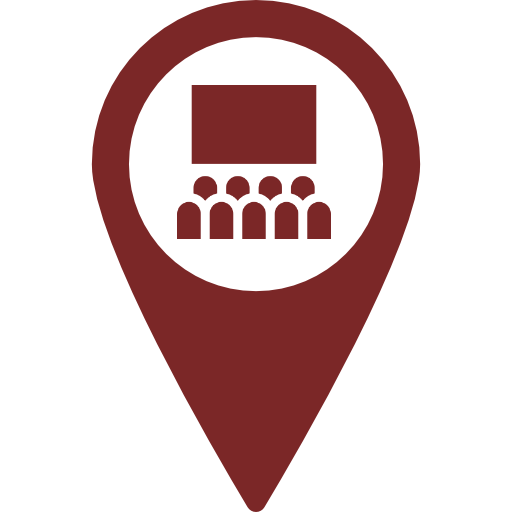
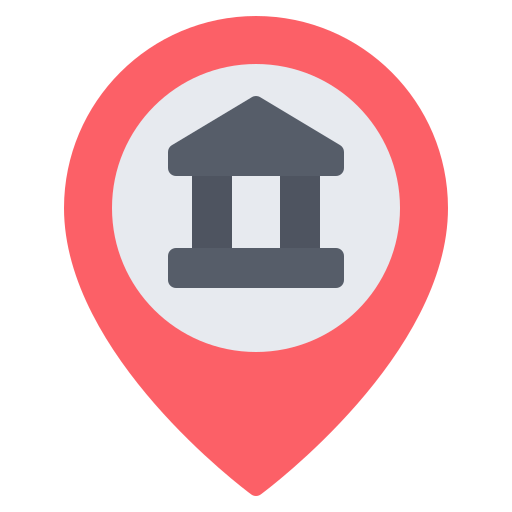
Cambio de imagenes a los marcadores del mapa

diff --git a/DependenciasAPP/src/paginas/PantallaInicio.tsx b/DependenciasAPP/src/paginas/PantallaInicio.tsx
@@ -1,4 +1,4 @@
-import React ,{useEffect, useState} from 'react'
+import React ,{useEffect} from 'react'
 import {
     SafeAreaView,
     View,
@@ -8,7 +8,6 @@ import {
     Image,
     FlatList,
     StatusBar,
-    ActivityIndicator
 } from "react-native"
 
 import  Carousel  from '../componentes/Carousel'
@@ -28,31 +27,18 @@ import { getIconoInicio } from '../componentes/Iconos';
 
 type RootStackParamList = {
     Inicio: undefined;
-    Lista: undefined;
+    Lista: {idTipoDep:number};
     Dependencia: {idDependencia: number};
     Buscador: undefined;
 };
 
 const {width, height} = Dimensions.get('window')
+const Stack = createStackNavigator();   
+
+type homeScreenProp = StackNavigationProp<RootStackParamList, 'Inicio'>;
 
 const PantallaInicio = () => {
-    const {BaseURL} = Apis();
-    const Stack = createStackNavigator();
-
-    const { TiposDependencia, CargarTiposDependencia} = TiposDependenciaUso();
-    const { Dependencias, Recomendados } = DependenciaUso();
-
-    const [IdTipo, setIdTipo] = useState(0);
-
-    useEffect(() => {
-      CargarTiposDependencia();
-    }, [])
-
     
-    
-
-    type homeScreenProp = StackNavigationProp<RootStackParamList, 'Inicio'>;    
-
     function renderHeader(){
         const navigation = useNavigation<homeScreenProp>();
         return (
@@ -118,6 +104,12 @@ const PantallaInicio = () => {
     
     function  renderMainCategories(){
         const navigation = useNavigation<homeScreenProp>();
+
+        const { TiposDependencia, CargarTiposDependencia} = TiposDependenciaUso();
+
+        useEffect(() => {
+            CargarTiposDependencia();
+        }, [])
         return(
             <View style={{ padding: 7 * 2, paddingBottom: 4}}>
                 <Text style={{ color: "#295074", fontFamily: "Roboto-Black", fontSize: 17, lineHeight: 21, fontWeight: 'bold' }}> Categorías </Text>
@@ -141,7 +133,7 @@ const PantallaInicio = () => {
                                     
                                     ...style.shadow
                                 }}
-                                onPress={() => {setIdTipo(item.idTipoDependencia),navigation.navigate('Lista')}}
+                                onPress={() => {navigation.navigate('Lista',{idTipoDep: item.idTipoDependencia})}}
                             >
                                 <View   
                                     style={{
@@ -181,11 +173,19 @@ const PantallaInicio = () => {
             </View>   
         )
     }
-    function ListaScreen(){
+    function ListaScreen(props:any){
+        const {BaseURL} = Apis();
         const navigation = useNavigation<homeScreenProp>();
+        const {DependenciasTipo,CargarDependenciasTipo} = DependenciaUso();
+        
         const Regreso = () =>{
             navigation.goBack()
         }
+
+        useEffect(() => {
+            CargarDependenciasTipo(props.route.params.idTipoDep);
+        },[])
+        
 
         return(
             <SafeAreaView style={style.container}>
@@ -231,11 +231,9 @@ const PantallaInicio = () => {
             </View>
                 <View style={style.Lista}>
                     <FlatList
-                        data={Dependencias}
+                        data={DependenciasTipo}
                         showsVerticalScrollIndicator={false}
-                        keyExtractor={item => `${item.idDependencia}`}
                         renderItem={({item}) => {
-                            if(item.idTipoDependencia === IdTipo){
                                 return(
                                     <TouchableOpacity
                                         style={{
@@ -256,12 +254,8 @@ const PantallaInicio = () => {
                                         </View>
                                     </TouchableOpacity>
                                 )
-                            }else{
-                                return(
-                                    <></>
-                                )
-                            }
                         }}
+                        keyExtractor={item => `${item.idDependencia}`}
                     />
                 </View>
             </SafeAreaView>
@@ -270,6 +264,12 @@ const PantallaInicio = () => {
 
     function rendermainCards(){
         const navigation = useNavigation<homeScreenProp>();
+        const { Recomendados, CargarRecomendados } = DependenciaUso();
+
+        useEffect(() => {
+          CargarRecomendados()
+        }, [])
+        
 
         return(
             <>
@@ -329,8 +329,6 @@ const PantallaInicio = () => {
     )
 }
 
-const VentanaWidth = Dimensions.get('window').width;
-const VentanaHeight = Dimensions.get('window').height;
 
 const style = StyleSheet.create({
     container: {
@@ -359,20 +357,21 @@ const style = StyleSheet.create({
     },
     ContenedorLista:{
         flex: 1,
-        height: VentanaHeight
+        height: height
     },
     Lista:{
-        width: VentanaWidth * 0.95,
+        width: width * 0.95,
         marginHorizontal: 10,
         marginVertical: 20,
         borderRadius: 10,
         padding: 0,
+        marginBottom: height * 0.20,
     },
     Imagen:{
         padding: 0,
         margin: 0,
         width: '100%',
-        height: VentanaHeight * 0.20,
+        height: height * 0.20,
         borderTopRightRadius: 10,
         borderTopLeftRadius: 10,
     },

diff --git a/DependenciasAPP/src/hooks/DependendeciasUso.tsx b/DependenciasAPP/src/hooks/DependendeciasUso.tsx
@@ -8,6 +8,7 @@ export const DependenciaUso = () => {
     const [Dependencia, setDependencia] = useState<Dependencia>();
 
     const [DependenciasSugerida,setDependenciasSugerida] = useState<Dependencia[]>([]);
+    const [DependenciasTipo, setDependenciasTipo] = useState<Dependencia[]>([])
     
     const [Recomendados, setRecomendados] = useState<Dependencia[]>([])
 
@@ -29,6 +30,15 @@ export const DependenciaUso = () => {
         }
     }
 
+    const CargarDependenciasTipo = async(idTipoDep:number) => {
+        try{
+            const resp = await DependenciasApi.get<Dependencia[]>(BaseURL+'/Dependencia/Tipo/'+idTipoDep);
+            setDependenciasTipo(resp.data)
+        }catch(error){
+            console.log(error)
+        }
+    }
+
     const BuscarDependencia = async (idDep:number) => {
         try {
             const resp = await DependenciasApi.get<Dependencia>(BaseURL+'/Dependencia/ID/'+idDep);
@@ -46,19 +56,22 @@ export const DependenciaUso = () => {
             console.log(error)
         }
     }
-    
+
     useEffect(() => {
-        CargarDependencias();
-        CargarRecomendados();
+      CargarDependencias()
     }, [])
+    
 
     return{
         Dependencias,
         Dependencia,
         Recomendados,
         DependenciasSugerida,
+        DependenciasTipo,
         BuscarDependencia,
         BuscarDependenciaSugerida,
         CargarDependencias,
+        CargarDependenciasTipo,
+        CargarRecomendados,
     }
 }

diff --git a/DependenciasAPP/src/componentes/Iconos.tsx b/DependenciasAPP/src/componentes/Iconos.tsx
@@ -39,34 +39,43 @@ export const getIconoMapa = (id:number) => {
     switch(id){
         case 1:
             return require(path+'Auditorio.png')
-            break;
+            
         case 2:
             return require(path+'Baño.png')
-            break;
+           
         case 3:
             return require(path+'Estadio.png')
-            break;
+            
         case 4: 
             return require(path+'Cancha.png');
-            break;
+            
         case 5:
             return require(path+'Parqueadero.png')
-            break;
+            
         case 6:
             return require(path+'Facultad.png')
-            break;
+            
         case 7:
             return require(path+'Biblioteca.png')
-            break;
+            
         case 8:
             return require(path+'Cafeteria.png')
-            break;
+            
         case 9:
             return require(path+'Administrativo.png')
-            break;
+        case 10:
+            return require(path+'Piscina.png')
+        case 11:
+            return require(path+'Coliseo.png')
+        case 12:
+            return require(path+'Gimnasio.png')
+        case 13:
+            return require(path+'UnidadAcademica.png')
+        case 14:
+            return require(path+'CentroMedico.png')
         default:
             return require(path+'Pin.png')
-            break;
+            
     }
 }
 

diff --git a/DependenciasAPP/src/navegador/Navegador.tsx b/DependenciasAPP/src/navegador/Navegador.tsx
@@ -1,11 +1,11 @@
 import React, { useEffect, useRef } from 'react'
 import PantallaMapa from '../paginas/PantallaMapa';
 import PantallaFavoritos from '../paginas/PantallaFavoritos';
-import { BottomTabBarButtonProps, createBottomTabNavigator } from '@react-navigation/bottom-tabs';
+import { createBottomTabNavigator } from '@react-navigation/bottom-tabs';
 import Icon from 'react-native-vector-icons/Ionicons';
 import PantallaInicio from '../paginas/PantallaInicio';
 import PantallaUsuario from '../paginas/PantallaUsuario';
-import { StyleSheet, Text, TouchableOpacity, View, } from 'react-native';
+import { StyleSheet, TouchableOpacity, View, } from 'react-native';
 
 import * as Animatable from 'react-native-animatable'
 

diff --git a/DependenciasAPP/App.tsx b/DependenciasAPP/App.tsx
@@ -26,7 +26,7 @@ const App = () => {
   }, [])
   
   useEffect(() => {
-    setTimeout(() =>{setEstadoCarga(false)},2000)
+    setTimeout(() =>{setEstadoCarga(false)},1500)
   }, [EstadoCarga])
   
   return (

diff --git a/DependenciasAPP/src/hooks/TiposDependenciaUso.tsx b/DependenciasAPP/src/hooks/TiposDependenciaUso.tsx
@@ -17,6 +17,7 @@ export const TiposDependenciaUso = () => {
 
     return {
         TiposDependencia,
+        setTiposDependencia,
         CargarTiposDependencia,
     }
 }
